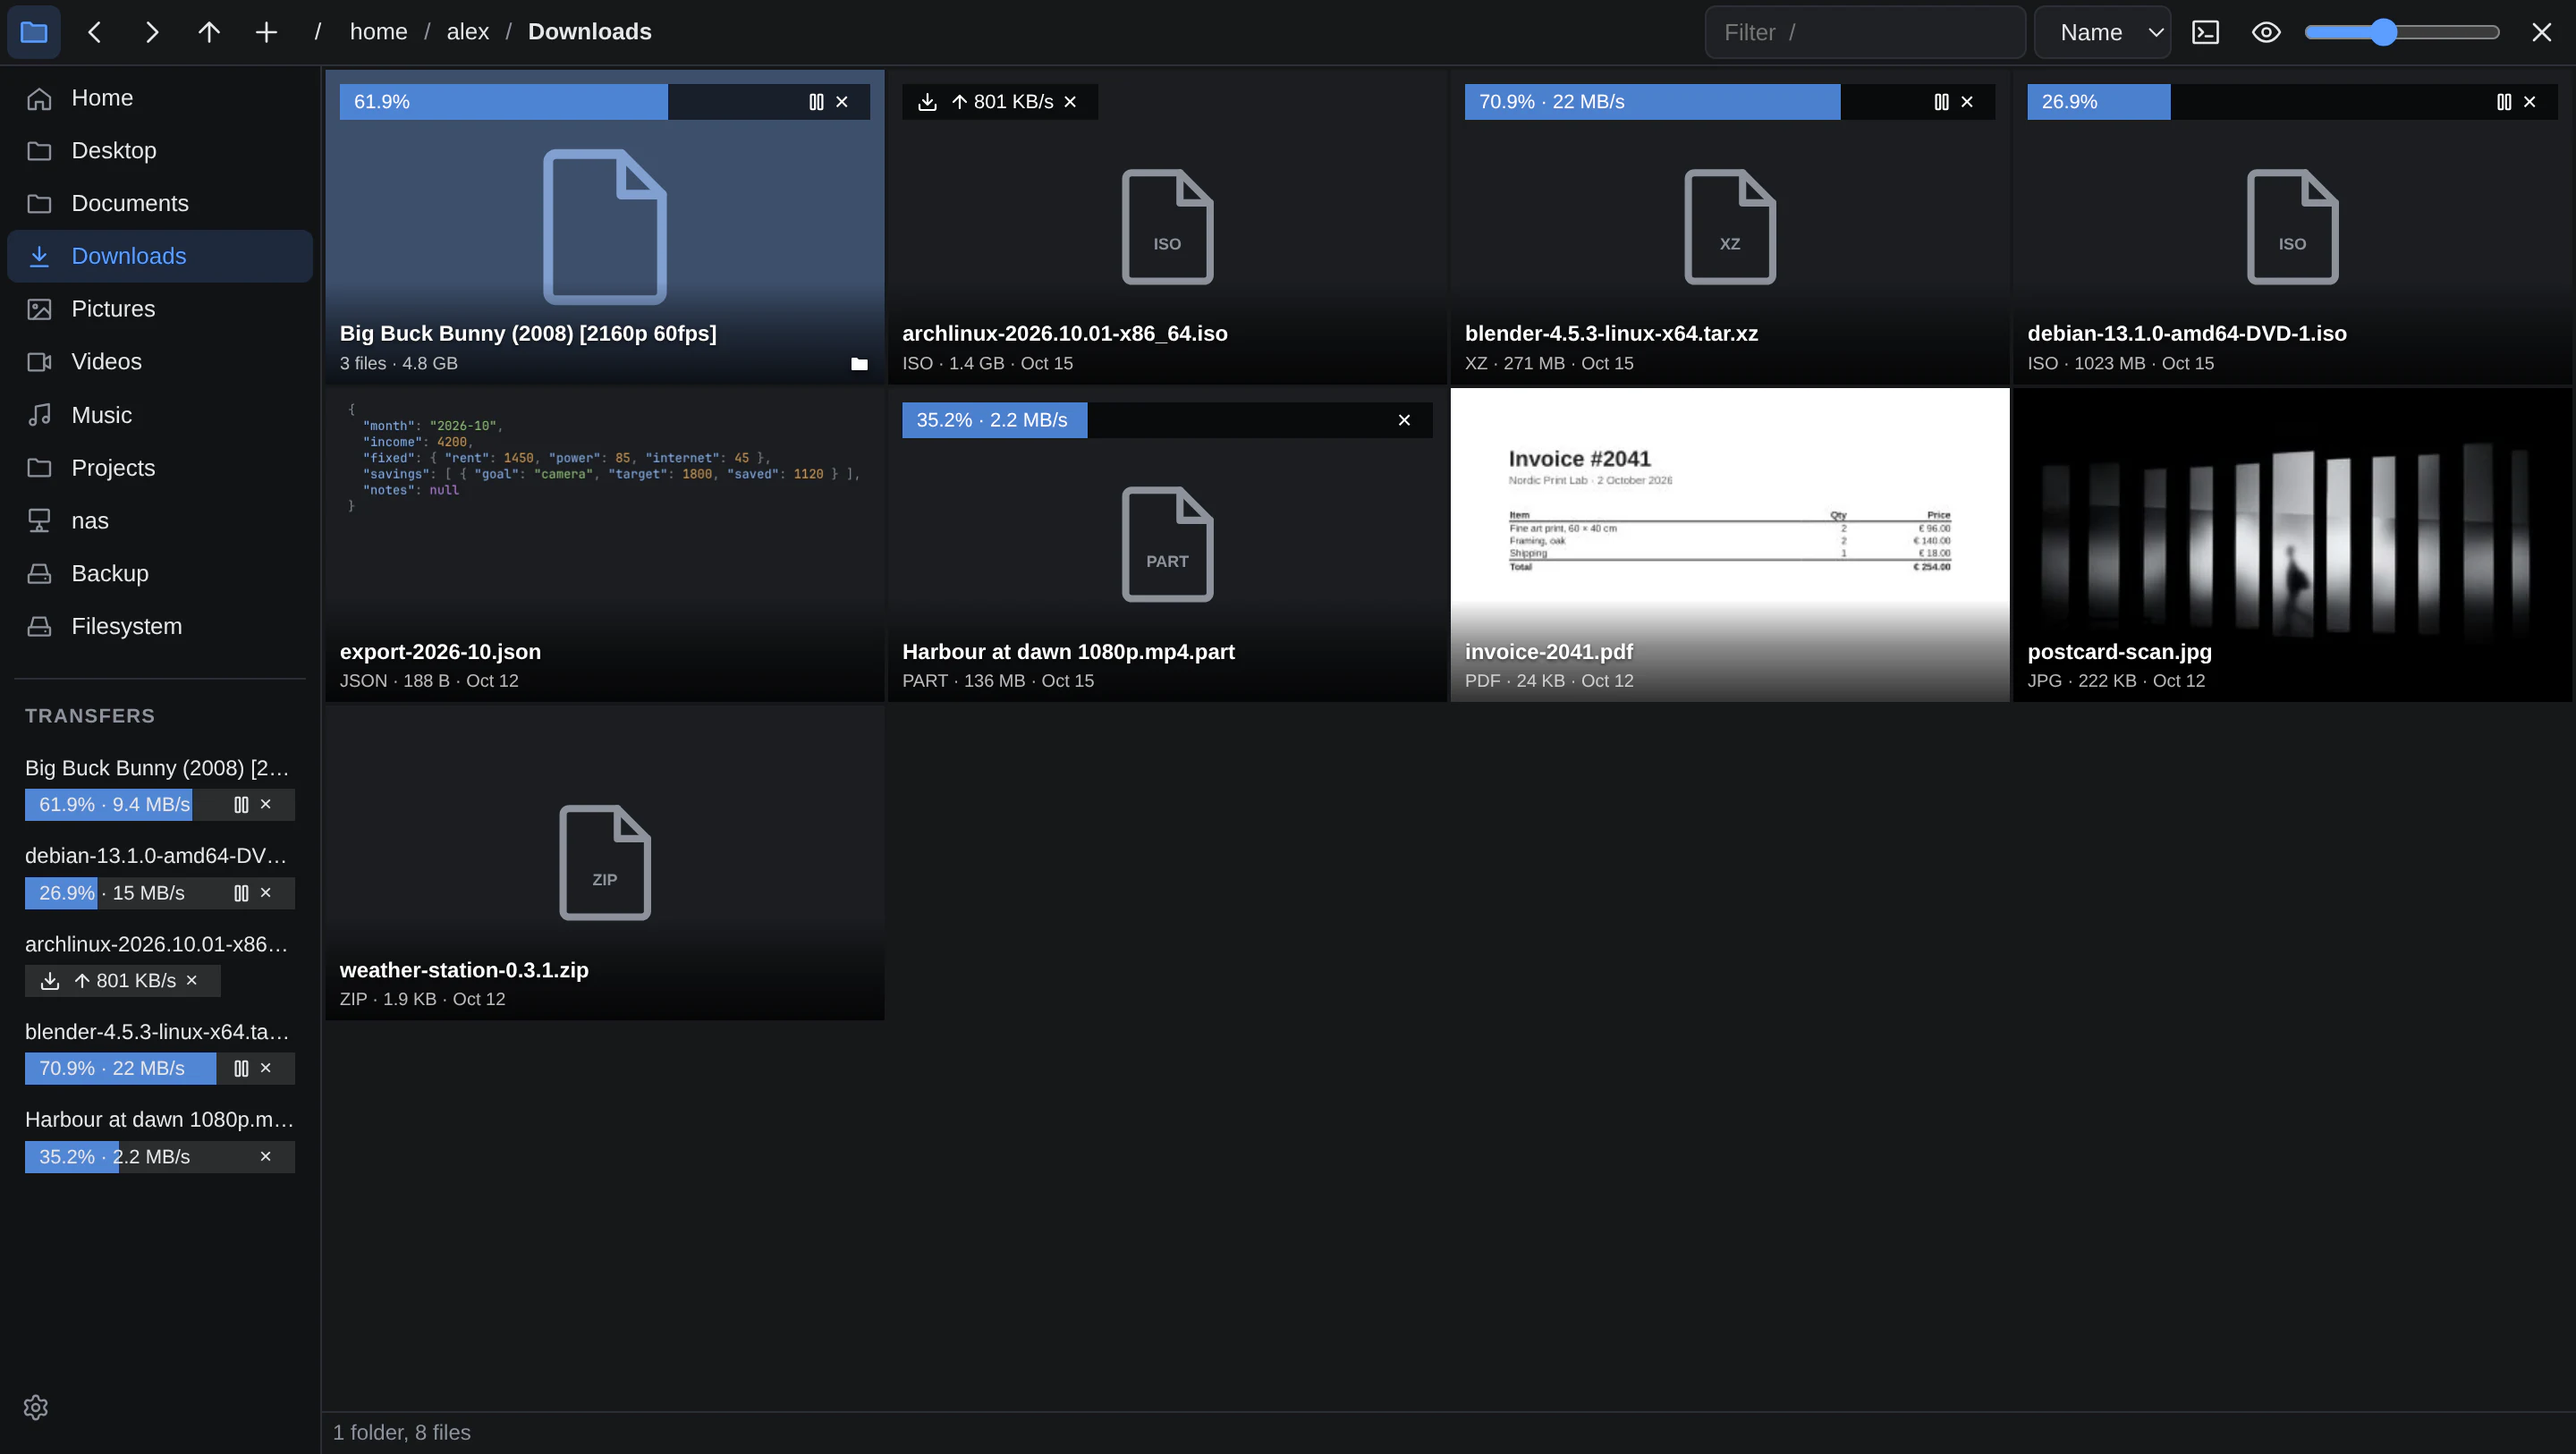
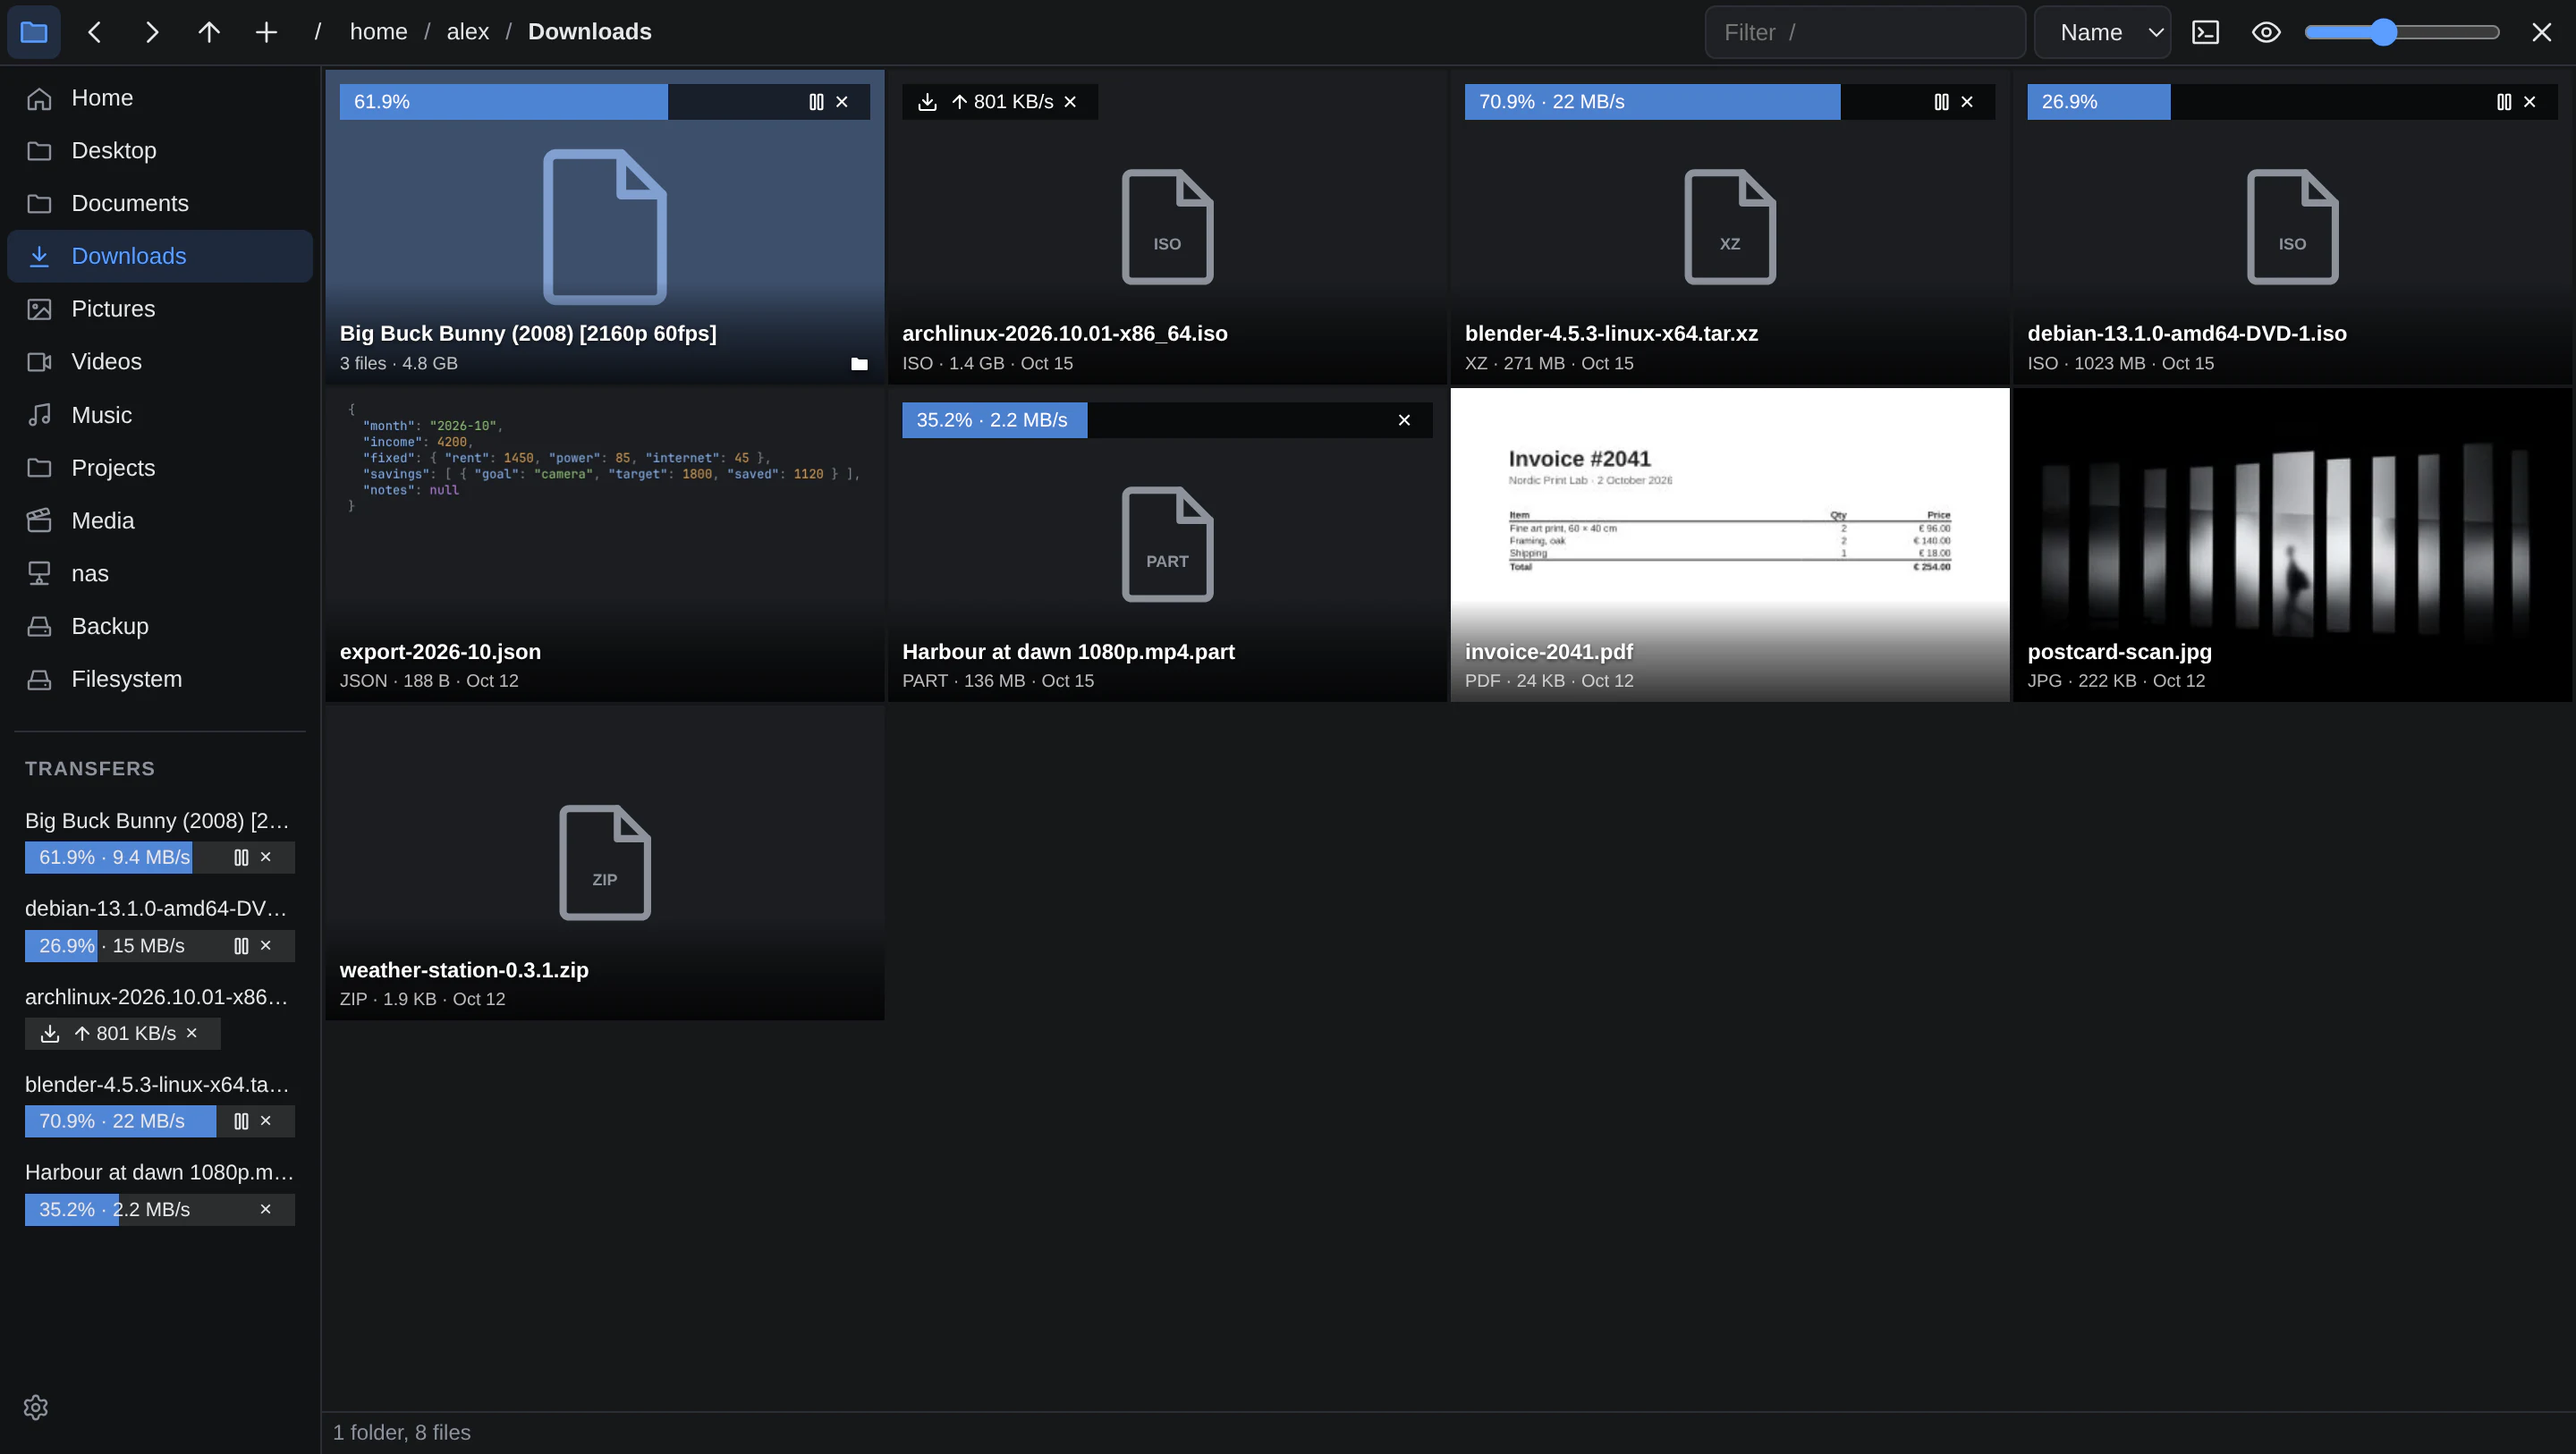
README: mediaview in the screenshots (a made-up library: real documentaries' titles, the photos here for pictures; one downloading, some watched), and all of them again (the sidebar's Media, the Transfers view's delete buttons, the longer tag lists)
Claude-Session: https://claude.ai/code/session_017ARhVFPUT4MnMeCqxVuHaJ

Changed region(s): [[0.0, 0.4305, 0.125, 0.861], [0.0, 0.3383, 0.0625, 0.3998]]

diff --git a/README.md b/README.md
@@ -21,10 +21,12 @@ Developed and tested on Omarchy, the install scripts assumes a similar setup.
 | Copying to another drive with rsync: progress on the folder and in the sidebar, pause, stop and resume | Videos play in the window (videoplayer); Crop cuts off the bars in the picture |
 | ![Downloads: torrents and a web download from panda-dl, and a video from Streamgrab, each with its bar on its tile and in the sidebar's Transfers](docs/screenshots/downloads.webp) | ![The Transfers view: every download in full, with speeds, time left, peers and seeds, and panda-dl's settings](docs/screenshots/transfers-view.webp) |
 | Torrents and web downloads (panda-dl) and browser videos (Streamgrab), as they come in | The Transfers view: each in full, and the settings for downloads |
+| ![mediaview: the movies in the media folders as pictures with their IMDb ratings, what's been started first, one still downloading](docs/screenshots/media.webp) | ![mediaview: a show's details, its next episode to play, and its season's episodes, watched, here or missing](docs/screenshots/media-show.webp) |
+| Movies and TV shows from the folders marked as media, matched with IMDb's titles and ratings on this computer (mediaview): what's been started first, downloads as they come in | A show's seasons and episodes: watched, here, or missing; the next one to play |
 | ![The chips theme](docs/screenshots/chips.webp) | |
 | Themes: here, chips | |
 
-<sub>Photos from [Unsplash](https://unsplash.com).</sub>
+<sub>Photos from [Unsplash](https://unsplash.com). mediaview's library is made up: the titles are real, the pictures are those same photos.</sub>
 
 ## The engine and its apps
 
